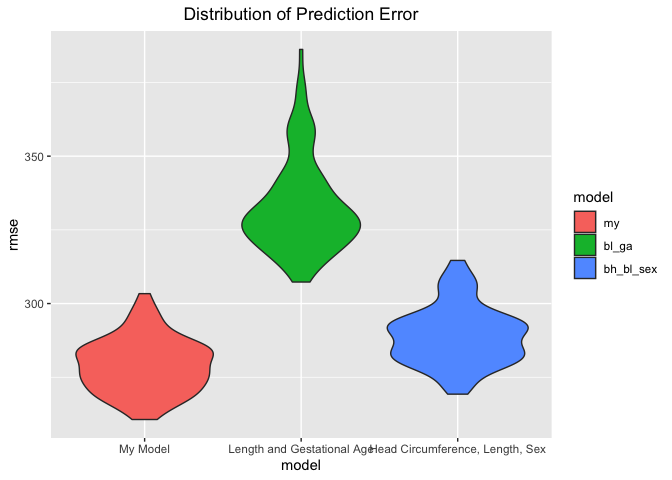
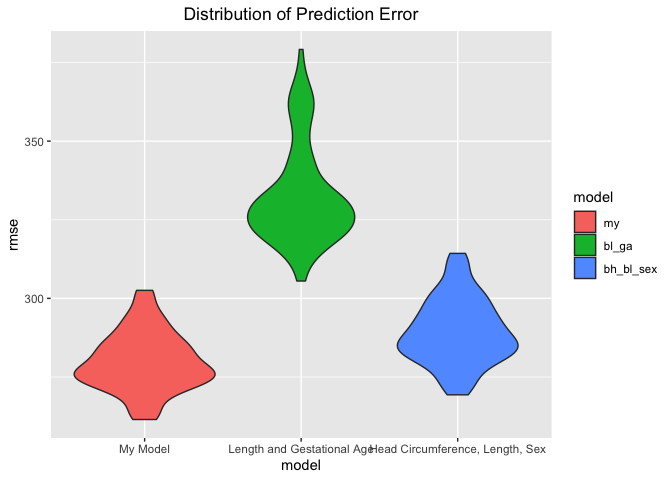
adjust model

diff --git a/p8105_hw6_cw3370.md b/p8105_hw6_cw3370.md
@@ -293,7 +293,7 @@ get_log <- function(fit){
     broom::tidy() %>% 
     pull(estimate)
   
-  log = log10(prod(estimate) )
+  log = log(prod(estimate) )
   
   return(log)
 }
@@ -307,8 +307,16 @@ boot_straps <-
     log = unlist(map(models,get_log))
   ) %>% 
   select(-strap,-models)
+```
 
+The median and mean of r\_squared is 0.9114154 and 0.9114154,the
+standard error of r\_squared is 0.0084746. According to the median, mean
+and plot, this distribution is almost symetric and look like normal
+distribution. I add a red normal distrbution with the mean and variance
+are equal to the mean and variance of r\_squared. Two curve are similar
+to each other.
 
+``` r
 boot_straps %>% 
   ggplot(aes(x = r_squared)) +
   geom_density() +
@@ -319,7 +327,14 @@ boot_straps %>%
         plot.title = element_text(hjust = 0.5))
 ```
 
-![](p8105_hw6_cw3370_files/figure-gfm/unnamed-chunk-8-1.png)<!-- -->
+![](p8105_hw6_cw3370_files/figure-gfm/unnamed-chunk-9-1.png)<!-- -->
+
+The median and mean of r\_squared is 2.013095 and 2.013095,the standard
+error of r\_squared is 0.024045. According to the median, mean and plot,
+this distribution is almost symmetric too and look like normal
+distribution. I add a red normal distrbution with the mean and variance
+are equal to the mean and variance of log.Two curve are similar to each
+other.
 
 ``` r
 boot_straps %>% 
@@ -332,20 +347,7 @@ boot_straps %>%
         plot.title = element_text(hjust = 0.5))
 ```
 
-![](p8105_hw6_cw3370_files/figure-gfm/unnamed-chunk-8-2.png)<!-- --> The
-median and mean of r\_squared is 0.9114983 and 0.9114983,the standard
-error of r\_squared is 0.0085658. According to the median, mean and
-plot, this distribution is almost symetric and look like normal
-distribution. I add a red normal distrbution with the mean and variance
-are equal to the mean and variance of r\_squared. Two curve are similar
-to each other.
-
-The median and mean of r\_squared is 0.8745 and 0.8745,the standard
-error of r\_squared is 0.0104038. According to the median, mean and
-plot, this distribution is almost symetric too and look like normal
-distribution. I add a red normal distrbution with the mean and variance
-are equal to themean and variance of log.Two curve are similar to each
-other.
+![](p8105_hw6_cw3370_files/figure-gfm/unnamed-chunk-10-1.png)<!-- -->
 
 This is the 95% CI of *r*<sup>2</sup> and
 *l**o**g*(*β*<sub>0</sub> \* *β*<sub>1</sub>)
@@ -359,9 +361,9 @@ boot_straps %>%
   knitr::kable()
 ```
 
-|    r\_low |   r\_high |
-|----------:|----------:|
-| 0.8935493 | 0.9270768 |
+|    r\_low |  r\_high |
+|----------:|---------:|
+| 0.8942412 | 0.926979 |
 
 ``` r
 boot_straps %>% 
@@ -372,6 +374,6 @@ boot_straps %>%
   knitr::kable()
 ```
 
-|    r\_low |   r\_high |
-|----------:|----------:|
-| 0.8542307 | 0.8946179 |
+|   r\_low |  r\_high |
+|---------:|---------:|
+| 1.964875 | 2.058291 |
